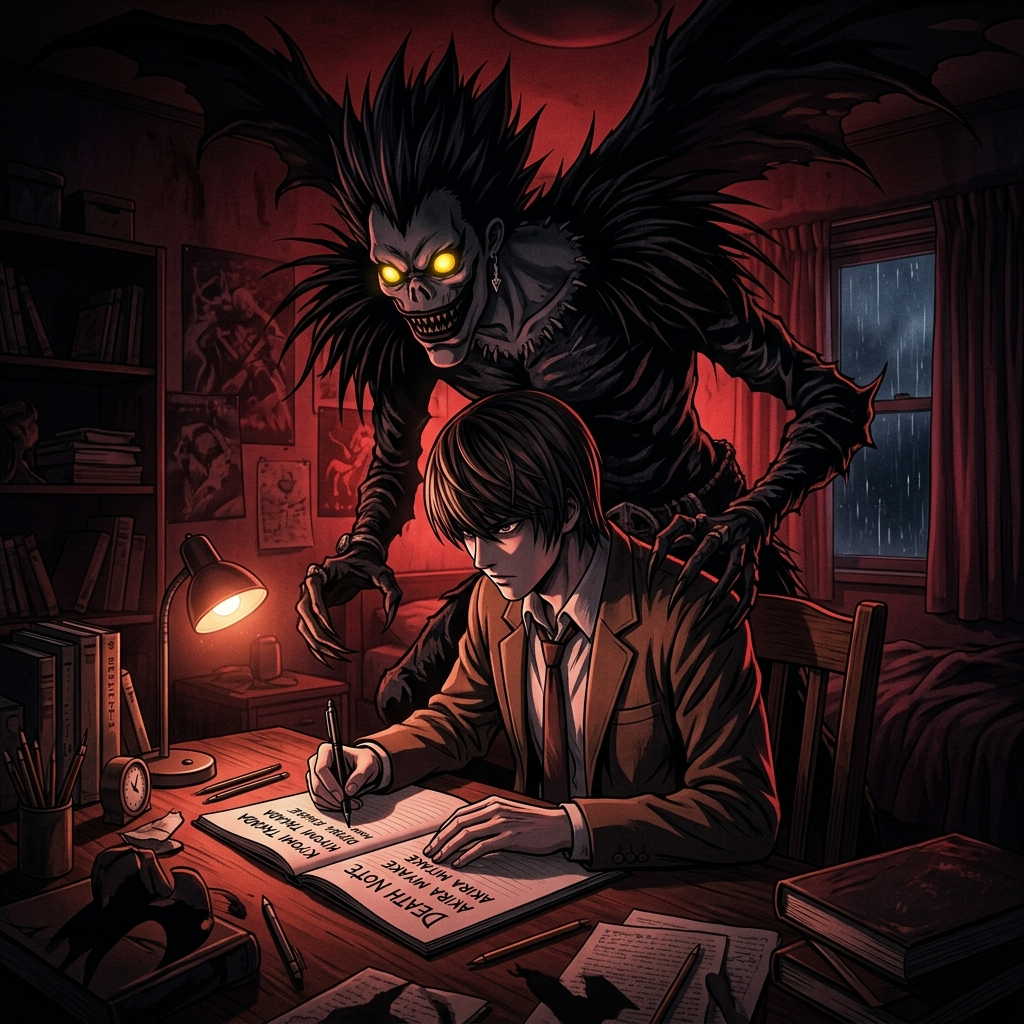
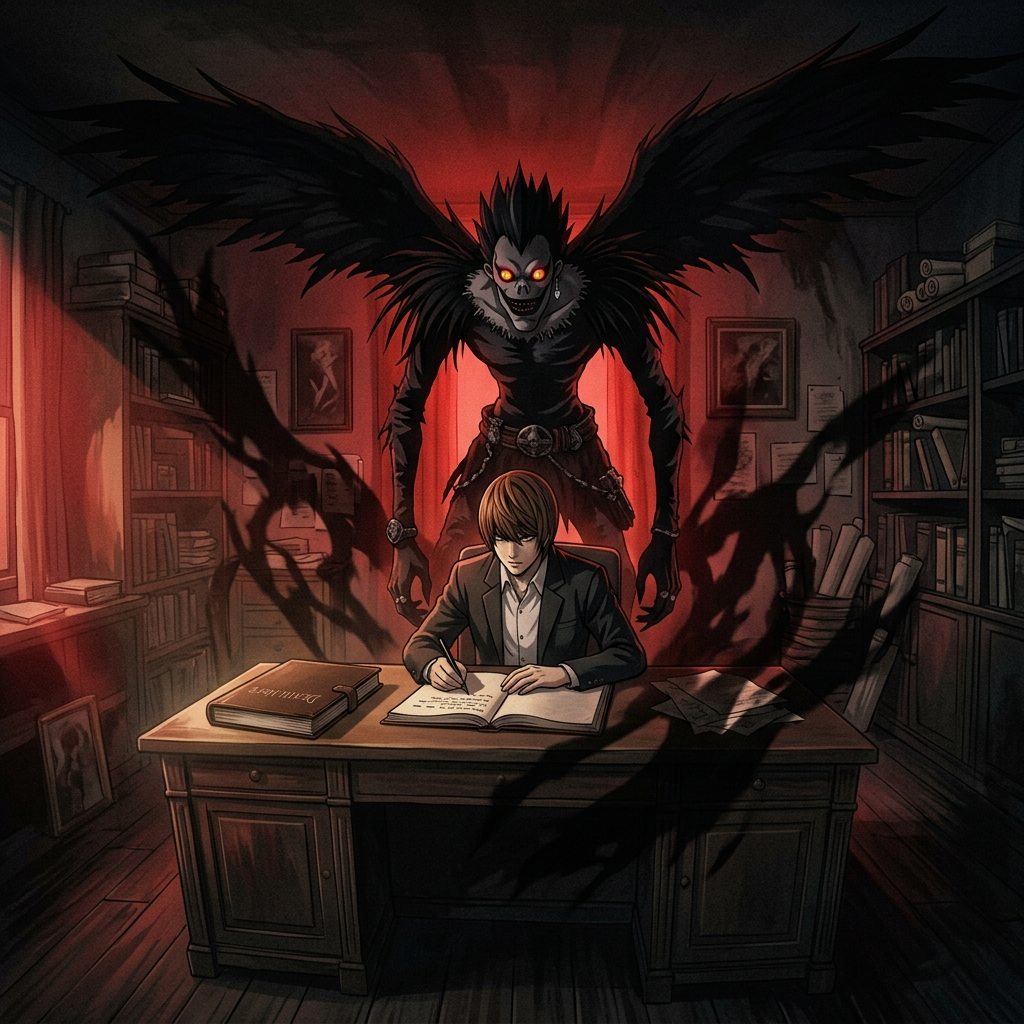
Prominently display Mohamed Atef and add interactive zoomed-out hero artwork

diff --git a/client/src/index.css b/client/src/index.css
@@ -16,7 +16,9 @@
 @media (prefers-reduced-motion:no-preference){.file-label span{animation:signal-pulse 2.8s ease-in-out infinite}@keyframes signal-pulse{0%,100%{opacity:.7;transform:scale(1)}50%{opacity:1;transform:scale(1.35)}}}@media (prefers-reduced-motion:reduce){*,*::before,*::after{scroll-behavior:auto!important;animation-duration:.001ms!important;animation-iteration-count:1!important;transition-duration:.001ms!important}}@media(max-width:900px){.site-header nav{display:none}.hero-status{display:none}.hero-content{padding:5rem 7vw}.hero-art{object-position:68% center}.ledger-section{padding-left:7vw;padding-right:7vw}.ledger-section::before{left:2.5vw}.ledger-section::after{left:calc(2.5vw - 2px)}.method-section,.record-section,.notes-section,.foundation-section{grid-template-columns:1fr;gap:3rem}.feature-case,.automation-file{grid-template-columns:1fr;gap:0}.feature-image{min-height:280px}.feature-copy{padding:2rem 0}.automation-file{padding:2rem 0}.automation-proof{padding-top:2rem}.project-pair{grid-template-columns:1fr}}@media(max-width:600px){.site-header{padding:0 1rem}.brand small{display:none}.cv-link{padding:.55rem .62rem}.hero{min-height:calc(100svh - 64px)}.hero-content{padding:4rem 1.2rem}.hero h1{font-size:clamp(3.1rem,15vw,4.7rem)}.hero-copy{font-size:.98rem}.hero-actions{margin-top:1.8rem}.proof-strip{grid-template-columns:1fr}.proof-strip article,.proof-strip article+article{padding:1.25rem 0;border-left:0;border-bottom:1px solid rgba(233,227,218,.12)}.proof-strip article:last-child{border-bottom:0}.ledger-section{padding-left:2.1rem;padding-right:1.1rem}.ledger-section::before{left:.75rem}.ledger-section::after{left:calc(.75rem - 2px)}.content-section{padding-top:4.5rem;padding-bottom:4.5rem}.section-heading h2{font-size:clamp(2.75rem,13vw,4.2rem)}.method-row{grid-template-columns:2.3rem 1fr 1rem}.project-pair article{grid-template-columns:102px 1fr;gap:.8rem}.project-pair img{width:102px;height:102px}.feature-image{min-height:220px}.record-list>article,.foundation-list>article{grid-template-columns:5.8rem 1fr;gap:.7rem}.record-list>article .seal{display:none}.contact-section{padding:4.5rem 1.2rem}footer{flex-direction:column;align-items:flex-start;padding:1.4rem 1.2rem}.footer-links{flex-wrap:wrap}.footer-links span{margin-left:0;width:100%;margin-top:.4rem}}
 
 /* Review-driven refinement: scene legibility and a strictly controlled evidence accent. */
-.hero-art{opacity:.98;filter:brightness(1.08) contrast(1.05) saturate(.85)}
+.hero-art{opacity:.98;filter:brightness(1.08) contrast(1.05) saturate(.85);object-fit:cover;object-position:center 20%;transition:transform .7s cubic-bezier(.16,1,.3,1),filter .7s ease;transform:scale(1)}
+.hero:hover .hero-art{transform:scale(1.05);filter:brightness(1.16) contrast(1.08) saturate(.95)}
+.is-scanning .hero-art{transform:scale(1.08) translateY(-8px);filter:brightness(1.2) contrast(1.12) saturate(1)}
 .hero-wash{background:linear-gradient(90deg,rgba(9,8,9,.985) 0%,rgba(9,8,9,.88) 34%,rgba(9,8,9,.18) 67%,rgba(9,8,9,.64) 100%)}
 .hero-status{background:rgba(9,8,9,.09)}
 .section-heading h2 span,.contact-section h2 span{background:none;-webkit-background-clip:initial;background-clip:initial;color:rgba(233,227,218,.43)}

diff --git a/client/src/pages/Home.tsx b/client/src/pages/Home.tsx
@@ -94,9 +94,9 @@ export default function Home() {
           <div className="hero-paper-traces" aria-hidden="true"><i /><i /><i /></div>
           <div className="hero-scanline" aria-hidden="true" />
           <div className="hero-content">
-            <FileLabel>CASE FILE / ACTIVE</FileLabel>
-            <p className="hero-kicker">Cybersecurity researcher · bug hunter · penetration tester</p>
-            <h1>EVERY EXPOSURE<br /><em>LEAVES A TRACE.</em></h1>
+            <FileLabel>MOHAMED ATEF / CASE FILE</FileLabel>
+            <p className="hero-kicker">Mohamed Atef · Cybersecurity Researcher · Bug Hunter · Penetration Tester</p>
+            <h1>MOHAMED ATEF<br /><em>EVERY EXPOSURE LEAVES A TRACE.</em></h1>
             <p className="hero-copy">I investigate what systems reveal in silence, validate the evidence, and map security findings to the risk teams need to resolve.</p>
             <div className="hero-actions"><Button asChild className="primary-action"><a href="#cases">Open the case files <ArrowDownRight /></a></Button><a className="secondary-action" href="#notes"><BookOpen /> Research notes</a><button type="button" className="scan-trigger" aria-pressed={scanActive} onClick={() => setScanActive((active) => !active)}><ScanSearch /> {scanActive ? "Pause field scan" : "Inspect live trace"}</button></div>
           </div>
